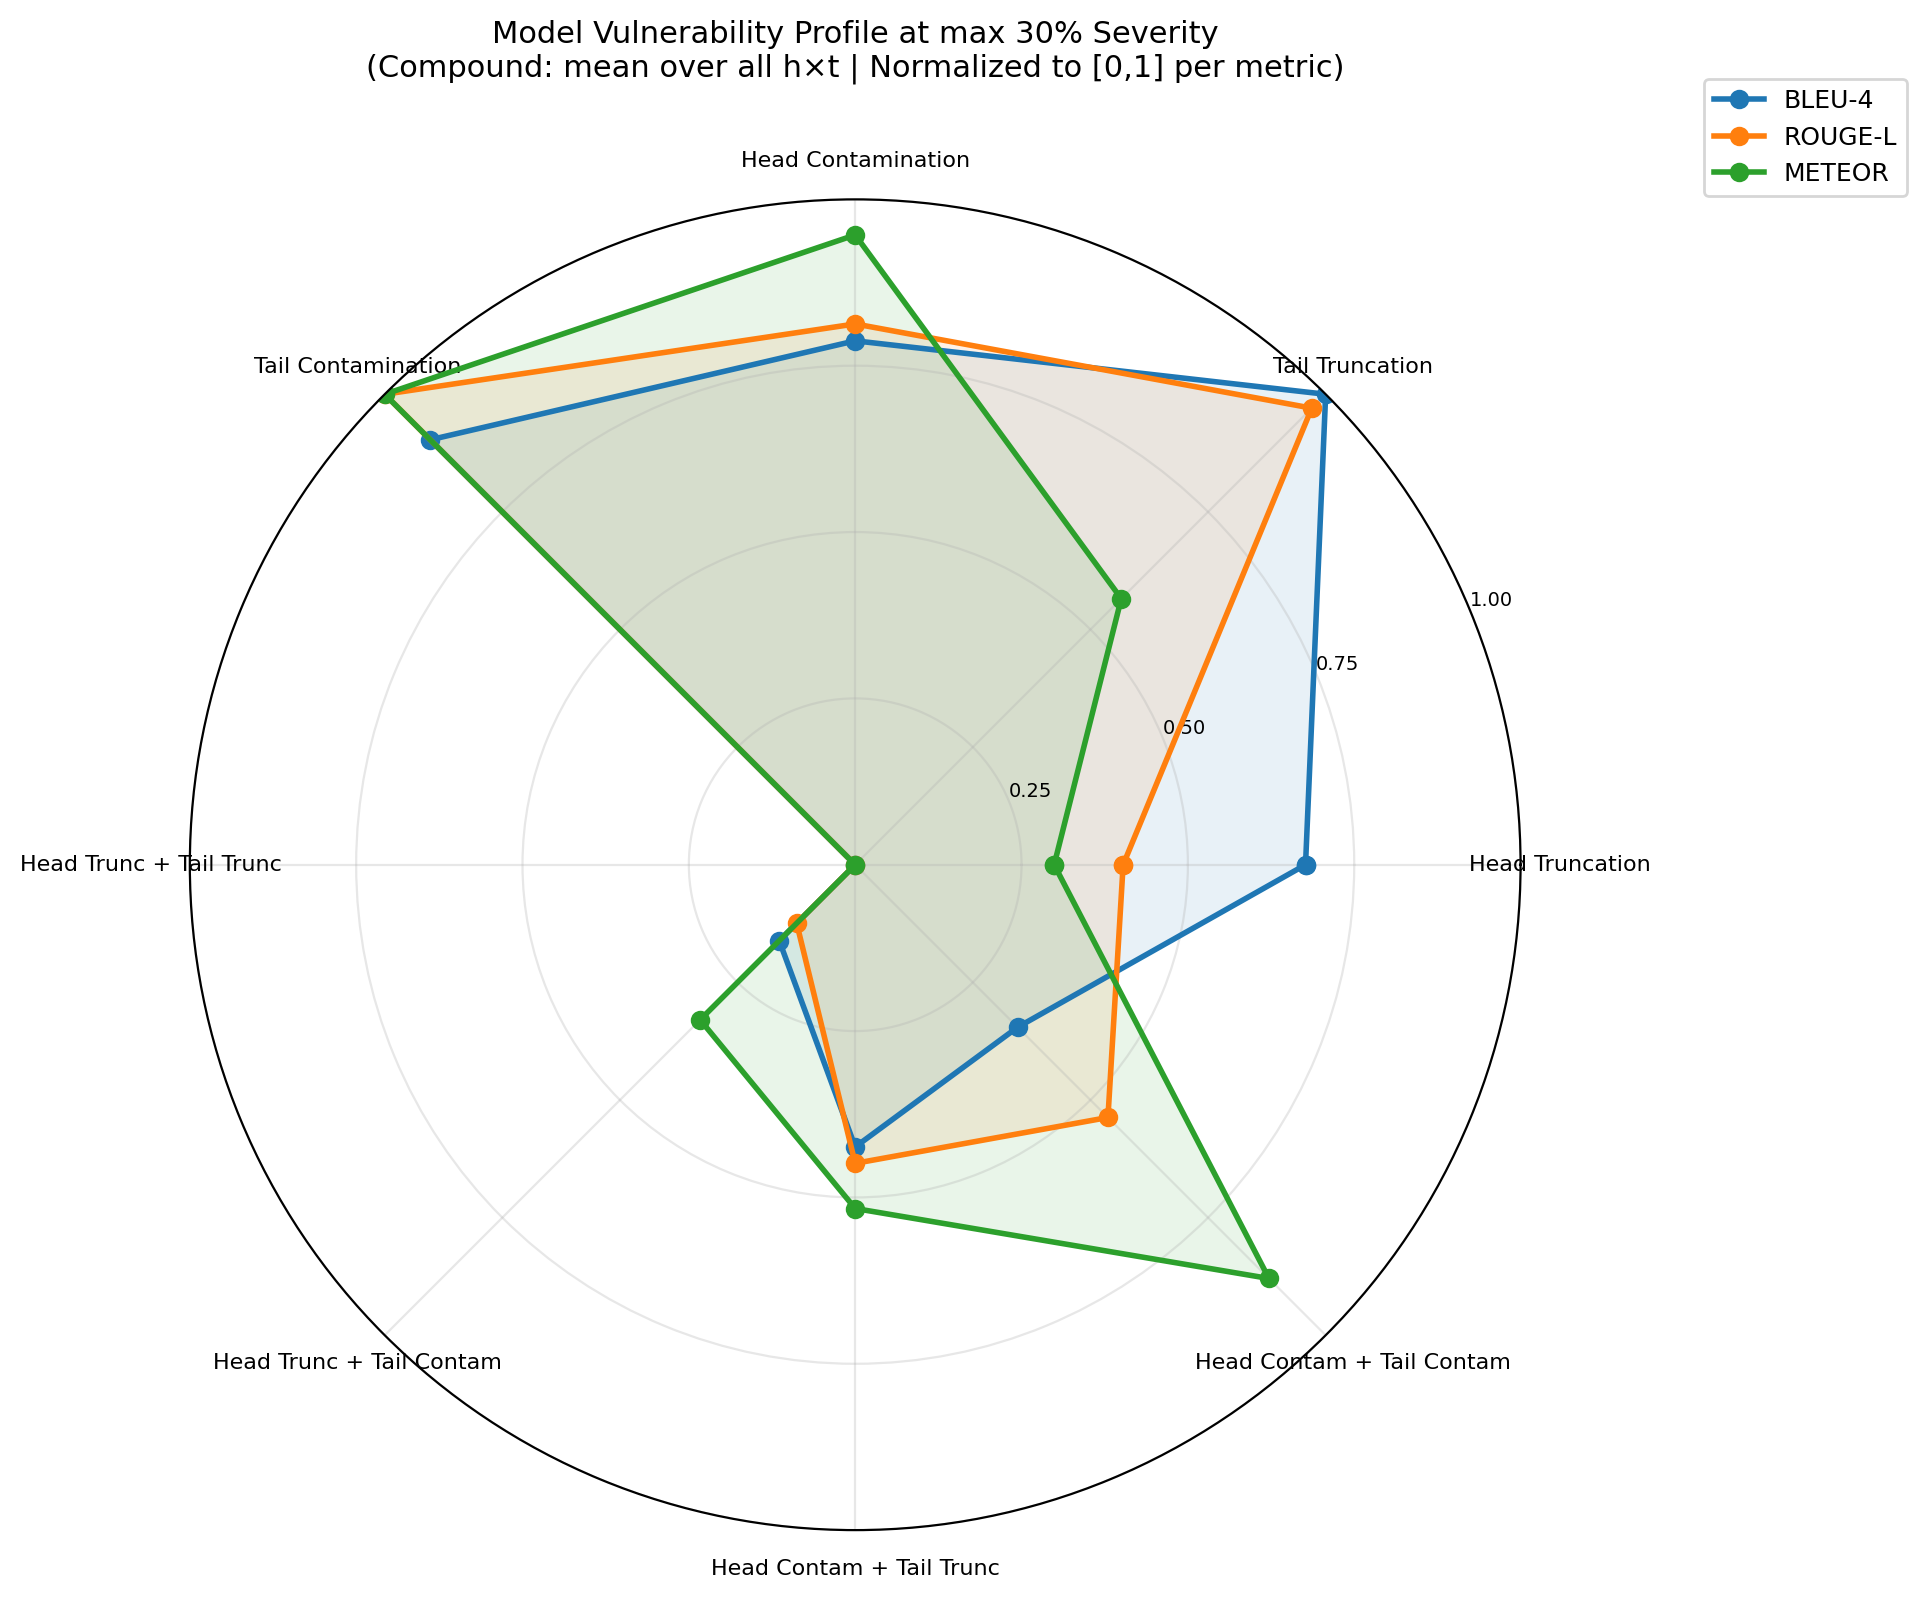
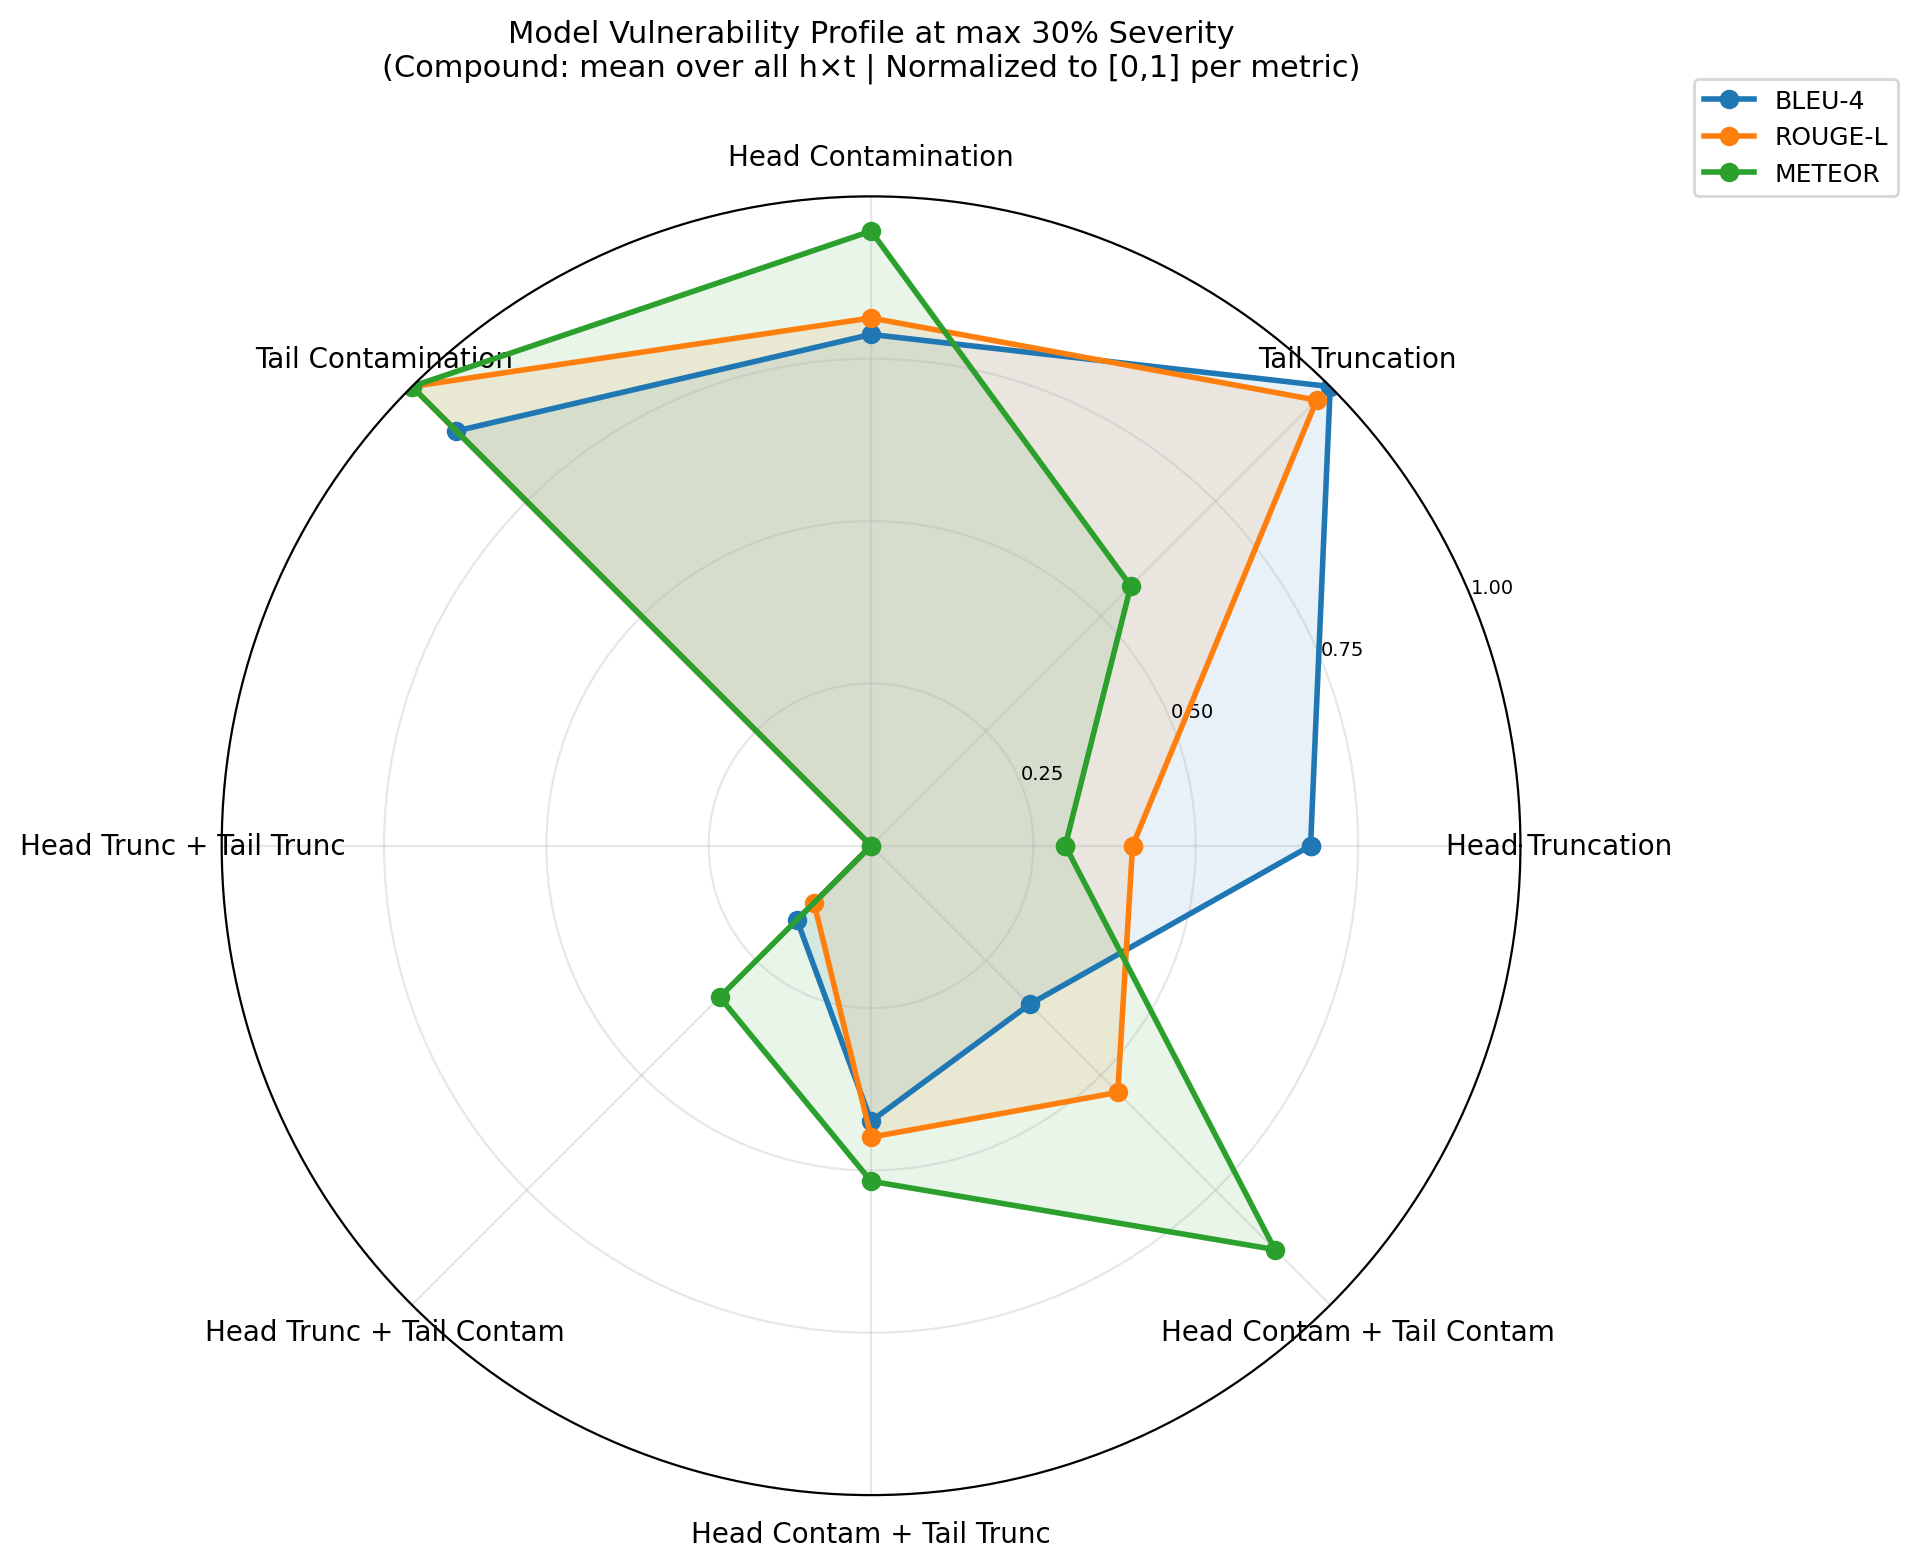
Enhance plot aesthetics and update result files for improved visualization

diff --git a/analyze.py b/analyze.py
@@ -332,7 +332,7 @@ def plot_degradation_curves(metrics, clean_bleu, out_dir):
     
     ax.set_xticks(x)
     ax.set_xticklabels([f'{v}%' for v in x])
-    ax.legend(fontsize=8, loc='lower left', ncol=2)
+    ax.legend(fontsize=10, loc='lower left', ncol=2)
     ax.grid(True, alpha=0.3)
     
     fig.tight_layout()
@@ -610,7 +610,7 @@ def plot_length_vs_drop(data, out_dir):
     # Deduplicate legend entries by label
     handles, labels = ax.get_legend_handles_labels()
     by_label = dict(zip(labels, handles))
-    ax.legend(by_label.values(), by_label.keys(), fontsize=8, loc='upper right')
+    ax.legend(by_label.values(), by_label.keys(), fontsize=10, loc='upper right')
     ax.grid(True, alpha=0.3)
     
     fig.tight_layout()
@@ -754,7 +754,7 @@ def plot_radar_chart(metrics, out_dir):
         ax.fill(angles, vals, alpha=0.1, color=colors_radar[mi])
 
     ax.set_xticks(angles[:-1])
-    ax.set_xticklabels([PRETTY[c] for c in MISALIGN_ORDER], fontsize=8)
+    ax.set_xticklabels([PRETTY[c] for c in MISALIGN_ORDER], fontsize=10)
     ax.set_ylim(0, 1)
     ax.set_yticks([0.25, 0.5, 0.75, 1.0])
     ax.set_yticklabels(['0.25', '0.50', '0.75', '1.00'], fontsize=7)
@@ -1170,7 +1170,7 @@ def compute_sensitivity_ranking(metrics, out_dir):
 # OUTPUT 14: Failure Distribution — Small Multiples
 def plot_failure_distribution(data, out_dir):
     translations = data.get('translations', {})
-    fig, axes = plt.subplots(2, 4, figsize=(20, 20))
+    fig, axes = plt.subplots(2, 4, figsize=(20, 15))
     axes = axes.flatten()
     any_data = False
 
@@ -1264,12 +1264,12 @@ def plot_compound_severity_grid(metrics, clean_bleu, out_dir):
                 if np.isnan(v): annot[r, c] = ''
                 else:
                     drop = (clean_bleu - v) / clean_bleu * 100 if clean_bleu > 0 else 0
-                    annot[r, c] = f'{v:.1f}\n({drop:+.0f}%)'
+                    annot[r, c] = f'{v:.1f}\n(-{drop:.0f}%)'
 
         sns.heatmap(
             mat, annot=annot, fmt='', cmap=cmap, 
             xticklabels=sev_labels, yticklabels=sev_labels,
-            vmin=vmin, vmax=vmax, annot_kws={'fontsize': 8},
+            vmin=vmin, vmax=vmax, annot_kws={'fontsize': 10},
             linewidths=0.5, ax=ax, cbar_kws={'label': 'BLEU-4'},
         )
         for d in range(len(SEVERITY_LEVELS)): # Black border on diagonal cells (symmetric h == t)
@@ -1410,9 +1410,9 @@ def plot_compound_interaction(metrics, clean_bleu, out_dir):
         ax.fill_between([lo, hi], [lo, hi], hi, alpha=0.06, color='red')
         ax.fill_between([lo, hi], lo, [lo, hi], alpha=0.06, color='blue')
         ax.text(0.97, 0.03, 'Subadditive', transform=ax.transAxes, ha='right',
-                va='bottom', fontsize=8, color='#1565C0', style='italic')
+                va='bottom', fontsize=10, color='#1565C0', style='italic')
         ax.text(0.03, 0.97, 'Superadditive', transform=ax.transAxes, ha='left',
-                va='top', fontsize=8, color='#C62828', style='italic')
+                va='top', fontsize=10, color='#C62828', style='italic')
 
         preds = np.array([p for p, a, _ in additivity_pts])
         actuals = np.array([a for p, a, _ in additivity_pts])
@@ -1454,7 +1454,7 @@ def plot_compound_interaction(metrics, clean_bleu, out_dir):
                      else 'Symmetric')
         ax.text(0.03, 0.97,
                 f'{direction}\n({n_above} above / {n_below} below y = x)',
-                transform=ax.transAxes, fontsize=8, va='top',
+                transform=ax.transAxes, fontsize=10, va='top',
                 bbox=dict(boxstyle='round,pad=0.3', fc='white', alpha=0.85))
 
         handles, labels_leg = ax.get_legend_handles_labels()
@@ -1506,7 +1506,7 @@ def plot_compound_interaction(metrics, clean_bleu, out_dir):
         dir_label = ('HC + TT less harmful' if n_a > n_b
                      else 'HT + TC less harmful' if n_b > n_a
                      else 'Equivalent')
-        ax.text(0.03, 0.97, dir_label, transform=ax.transAxes, fontsize=8, va='top',
+        ax.text(0.03, 0.97, dir_label, transform=ax.transAxes, fontsize=10, va='top',
                 bbox=dict(boxstyle='round,pad=0.3', fc='white', alpha=0.85))
     else:
         ax.text(0.5, 0.5, 'No data', ha='center', va='center',
